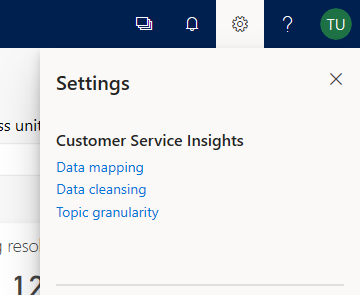
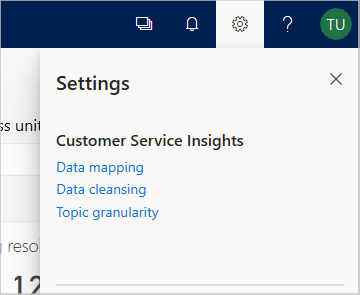
updated data mapping topic

Changed region(s): [[0.0, 0.0, 1.0, 1.0]]

diff --git a/ai-docs/customer-service-insights/map-data.md b/ai-docs/customer-service-insights/map-data.md
@@ -2,7 +2,7 @@
 title: "Map your data to custom entities and fields"
 description: "Learn how to generate insights by mapping your data to custom data entities and fields."
 keywords: ""
-ms\.date: 3/25/2019
+ms\.date: 4/3/2019
 ms.service:
   - dynamics-365-ai
 ms.topic: article
@@ -53,23 +53,21 @@ See [Use workspaces to connect to different customer service environments](use-w
 
 ## To map data by specifying data mapping settings
 
-1. Select the **Settings** button on the Customer Service Insights title bar, and then select **Settings**.
+1. Select the **Settings** button on the Customer Service Insights title bar and then select **Data mapping**.
 
-   > ![Settings button](media/ai-csi-settings-button.png)
+   > ![Select mapping](media/select-mapping.png)
 
-   Customer Service Insights displays the **Settings** page.
-
-2. Select **Data mapping** to display the Data mapping pane. Customer Service Insights displays the available destination entities.
+   Customer Service Insights displays the Data mapping page, which shows the available destination entities.
 
    > ![Data mapping pane](media/data-mapping-pane.png)
 
-3. To edit your mapping settings for an entity, hover over the entity in the list and then select the edit icon.
+2. To edit your mapping settings for an entity, hover over the entity in the list and then select the edit icon.
 
    > ![Edit entity](media/edit-entity.png)
 
     Customer Service Insights displays the **Map your incident records** page, where you can update the data mapping for the entity.
 
-4. You can view the status of the mapping in the **Mapped Fields** column.
+3. You can view the status of the mapping in the **Mapped Fields** column.
 
    > ![View mapping](media/view-mapping.png)
 
